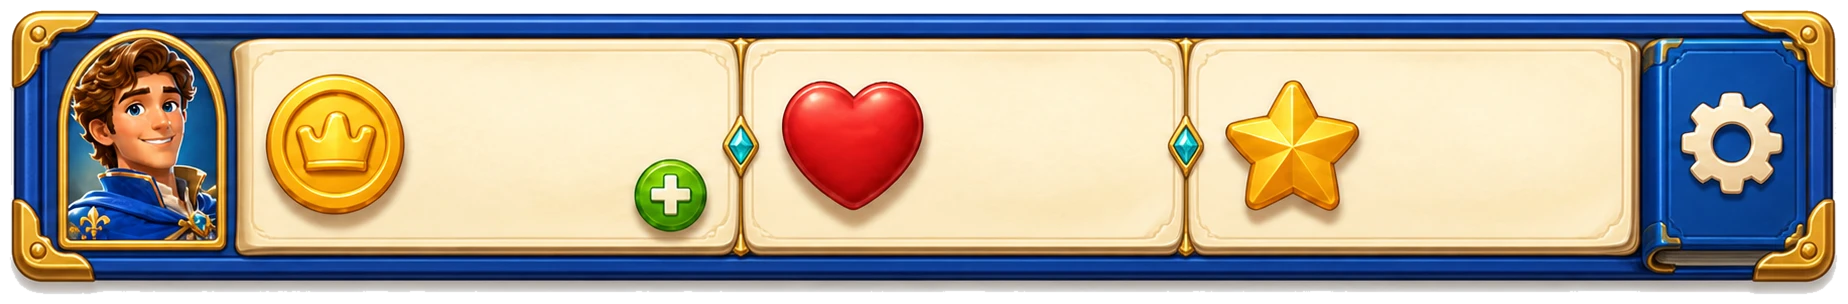
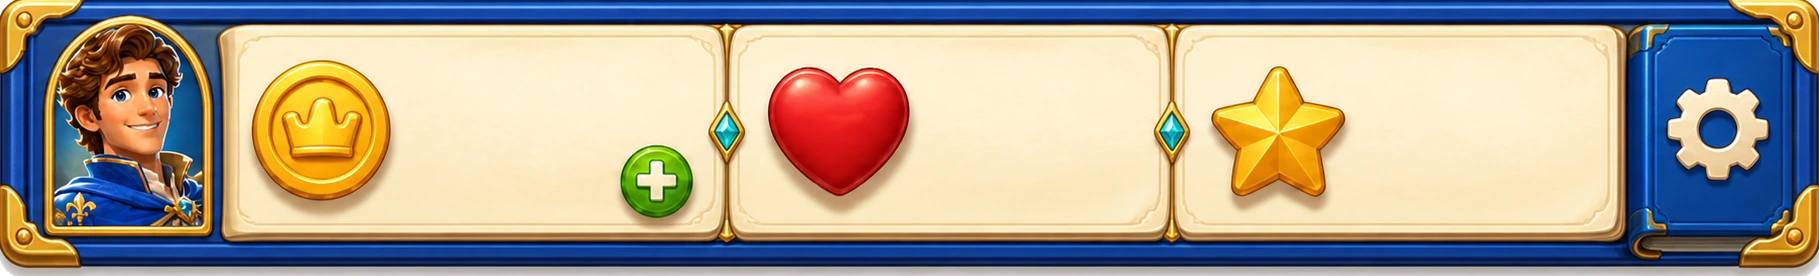
Remove the sliver of background showing either side of the top bar
You were right, and it was the same fault as the old chassis: transparent
margin baked into the asset. Measuring the rendered pixels showed the gold
starting seven device pixels in, so roughly 2.3 CSS px of sky was visible down
each edge at 390px.

Three layers turned out to be involved, which is why an obvious trim was not
enough on its own:

- The art carried a transparent border of its own, so width:100% was never
  putting the chassis against the edge.
- object-fit:contain letterboxed a fraction more whenever the container height
  rounded away from the image's aspect. The container aspect now matches the
  file exactly, so fill is both safe and immune to that rounding.
- The remaining sliver was the antialiased edge itself. Trimming to the
  bounding box left columns at alpha 31 and 64, which composite as background.
  The crop now stops at the first fully opaque column.

The asset is trimmed to its solid core, 1819x276, and every field and hit area
is re-measured against that canvas. Confirmed zero gap at 320, 390 and 440.
The chassis also gains the few pixels the old margin was wasting.

diff --git a/app/v3/V3.module.css b/app/v3/V3.module.css
@@ -10,17 +10,17 @@
 .loginIntroChrome button:focus-visible{outline:3px solid #fff;outline-offset:3px}
 @media (prefers-reduced-motion:reduce){.loginIntro video{display:none}.loginIntro{background:radial-gradient(circle at 50% 20%,#397ec0,#0b265e 65%,#051633)}}
 .hubContent{position:relative;z-index:1;padding-bottom:95px}
-.royalTopBar{position:fixed;z-index:30;top:-3px;left:50%;width:100%;margin:0;aspect-ratio:1848/304;overflow:visible;transform:translateX(-50%);filter:drop-shadow(0 6px 14px rgba(4,12,34,.4));pointer-events:none}
+.royalTopBar{position:fixed;z-index:30;top:0;left:50%;width:100%;margin:0;aspect-ratio:1819/276;overflow:visible;transform:translateX(-50%);filter:drop-shadow(0 6px 14px rgba(4,12,34,.4));pointer-events:none}
 .royalTopBar::before{display:none}
-.royalTopBarArt{display:block;position:absolute;inset:0;width:100%;height:100%;object-fit:contain;pointer-events:none;user-select:none}
-.royalTopBarEnergy,.royalTopBarStars,.royalTopBarCoins{position:absolute;top:46.9%;transform:translate(-50%,-50%);display:grid;place-items:center;overflow:hidden;color:#6a351b;font-family:var(--game-display);font-weight:700;font-size:clamp(12px,4vw,17px);line-height:1;letter-spacing:.01em;text-shadow:0 1px 0 rgba(255,255,255,.7);white-space:nowrap}
-.royalTopBarCoins{left:28.1%;width:12%}
-.royalTopBarEnergy{left:56.7%;width:13%}
-.royalTopBarStars{left:80.5%;width:14%}
-.royalTopBarProfile,.royalTopBarShop,.royalTopBarSettings{position:absolute;top:46.9%;transform:translate(-50%,-50%);width:44px;height:44px;margin:0;border:0;border-radius:50%;background:transparent;padding:0;cursor:pointer;pointer-events:auto;-webkit-tap-highlight-color:transparent}
-.royalTopBarProfile{left:9%}
-.royalTopBarShop{left:36.3%}
-.royalTopBarSettings{left:94.3%}
+.royalTopBarArt{display:block;position:absolute;inset:0;width:100%;height:100%;object-fit:fill;pointer-events:none;user-select:none}
+.royalTopBarEnergy,.royalTopBarStars,.royalTopBarCoins{position:absolute;top:46.59%;transform:translate(-50%,-50%);display:grid;place-items:center;overflow:hidden;color:#6a351b;font-family:var(--game-display);font-weight:700;font-size:clamp(12px,4vw,17px);line-height:1;letter-spacing:.01em;text-shadow:0 1px 0 rgba(255,255,255,.7);white-space:nowrap}
+.royalTopBarCoins{left:27.78%;width:12%}
+.royalTopBarEnergy{left:56.83%;width:13.2%}
+.royalTopBarStars{left:81.01%;width:14.5%}
+.royalTopBarProfile,.royalTopBarShop,.royalTopBarSettings{position:absolute;top:46.59%;transform:translate(-50%,-50%);width:44px;height:44px;margin:0;border:0;border-radius:50%;background:transparent;padding:0;cursor:pointer;pointer-events:auto;-webkit-tap-highlight-color:transparent}
+.royalTopBarProfile{left:8.37%}
+.royalTopBarShop{left:36.11%}
+.royalTopBarSettings{left:95.03%}
 .royalTopBarShop:focus-visible,.royalTopBarSettings:focus-visible{outline:3px solid #fff4bf;outline-offset:2px;box-shadow:0 0 0 5px rgba(39,99,144,.9)}
 .royalTopBarShop:active,.royalTopBarSettings:active{transform:translate(-50%,-50%) scale(.94)}
 .royalTopBarShop:disabled,.royalTopBarSettings:disabled{cursor:not-allowed;opacity:.55}
